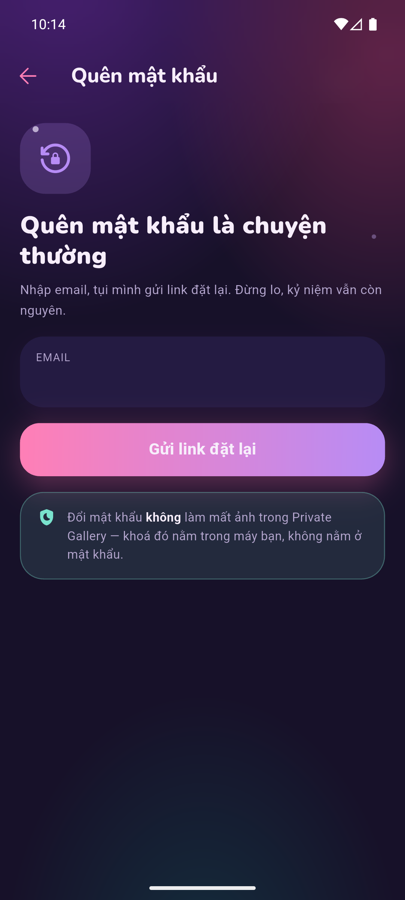
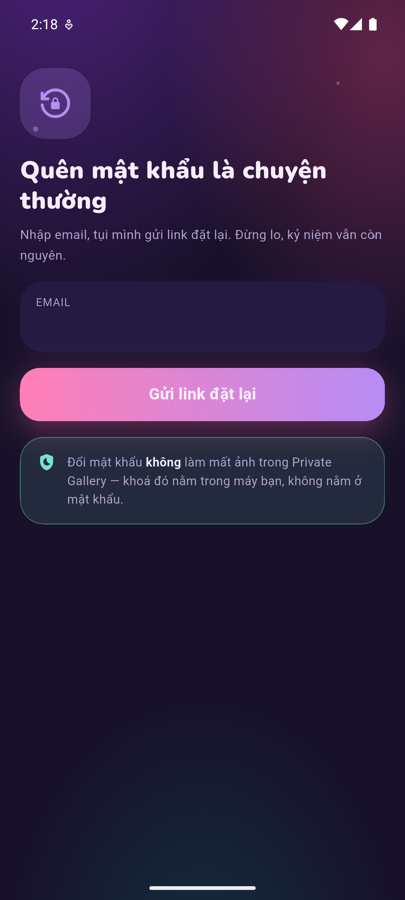
docs(REQ-002): recapture mobile-visual-audit evidence for R3-1 (chrome removal on otp/forgot/permissions/profile)
Rows 5-8 and their PNGs described a pre-fix state: the Round 2 captures
predated f726e8c (BUG-20260814-001), which removed the self-composed
CupidHeader from otp, forgot, permissions and onboarding_profile_setup.

Recaptured all four on emulator-5560 at integration HEAD d3f5f34, same tool
and --max-edge=900, same 405x900 filenames. Rows 5-8 now record the
chromeless state; IF-2 gains a "no header chrome" group and marks these four
resolved; IF-4 is restated after pixel measurement showed its comparator list
was wrong — otp, permissions and profile all sample a flat rgb(23,17,41),
and forgot is the only one of the four rendering the shared background wash,
because it is the only one that dropped its opaque Scaffold backgroundColor
under STORY-032 AC1.

flutter build apk --debug -t lib/main_preview.dart: exit 0. flutter analyze
lib test: 0 errors/0 warnings (80 info lints). flutter test: 1247 passed/2
skipped/0 failures.

Changed region(s): [[0.0296, 0.0622, 0.9778, 0.6533], [0.0889, 0.0, 0.1778, 0.0311]]

diff --git a/data/requirements/REQ-002_screen_flow_and_design_fidelity_audit/integration-review/mobile-visual-audit.md b/data/requirements/REQ-002_screen_flow_and_design_fidelity_audit/integration-review/mobile-visual-audit.md
@@ -36,6 +36,14 @@ build of the integration HEAD rather than 31 rebuild cycles.
 | Screen switch | `cupidpreview://screen/<id>` (debug-only intent filter) |
 | Session | Authenticated preview fixture session (`PREVIEW_EMAIL` / `PREVIEW_PASSWORD`), backend reachable at `http://10.0.2.2:3000` |
 
+Round 3 recapture (R3-1): the `otp`, `forgot`, `permissions` and `profile` PNGs
+were replaced in place at integration HEAD `d3f5f34`, because their Round 2
+captures predated `f726e8c` and still showed the `CupidHeader` that fix removed.
+Same device, same tool, same `--max-edge=900`, same 405x900 output. The rebuild
+added `--dart-define=PREVIEW_PROFILE=fixture` — STORY-010's documented
+backend-free path for the `profile` capture — which affects that screen only.
+The other 27 PNGs are unchanged Round 2 evidence.
+
 Capture caveat: installing the preview APK replaced the DevOps `lib/main.dart`
 debug build on `emulator-5560` (same `applicationId`). The emulator lifecycle
 itself was untouched. Re-install the `lib/main.dart` debug build if a later pass
@@ -72,10 +80,10 @@ All screenshots are `mobile-screenshots/implemented-<id>-emulator-5560.png` on
 | 2 | `welcome` | FAIL | IF-1 — background gradient renders pale lavender→pink; white text and footnote near-illegible |
 | 3 | `login` | PASS | No broken/misaligned mobile UI components observed |
 | 4 | `register` | PASS | No broken/misaligned mobile UI components observed |
-| 5 | `otp` | PASS | IF-4 (minor) — backdrop flatter/darker than the ambient wash on sibling auth screens |
-| 6 | `forgot` | PASS | No broken/misaligned mobile UI components observed |
-| 7 | `permissions` | PASS | No broken/misaligned mobile UI components observed |
-| 8 | `profile` | PASS | No broken/misaligned mobile UI components observed |
+| 5 | `otp` | PASS | Chromeless per AC4. IF-4 — opaque Scaffold fill occludes the shared background wash |
+| 6 | `forgot` | PASS | Chromeless per AC4. Only one of the four chain screens rendering the shared background wash |
+| 7 | `permissions` | PASS | Chromeless per AC4. IF-4 — opaque Scaffold fill occludes the shared background wash |
+| 8 | `profile` | PASS | Chromeless per AC4. IF-4 — opaque Scaffold fill occludes the shared background wash |
 | 9 | `pairingchoice` | PASS | No broken/misaligned mobile UI components observed |
 | 10 | `invite` | PASS | IF-2 — header shows a bare back arrow with no title |
 | 11 | `joincode` | PASS | IF-2 — header shows a bare back arrow with no title |
@@ -134,18 +142,29 @@ an audit pass.
 
 ### IF-2 — Inconsistent screen header affordances — MEDIUM
 
-Three header patterns coexist across the merged build:
+Four header patterns coexist across the merged build:
 
-- back arrow + title: `otp`, `forgot`, `permissions`, `profile`, `vibe`,
-  `alarm`, `antighost`, `timeline`, `contract`, `ghostset`, `jar`, `jarlist`,
-  `privacy`, `notifs`
+- no header chrome (specified, not a deviation): `otp`, `forgot`,
+  `permissions`, `profile`
+- back arrow + title: `vibe`, `alarm`, `antighost`, `timeline`, `contract`,
+  `ghostset`, `jar`, `jarlist`, `privacy`, `notifs`
 - back arrow, no title: `invite`, `joincode`
 - title, no back arrow: `expense`, `jarnew`
+
+Resolved for the first group. `ux/uiux-spec.md` AC4 Chrome Rules apply
+unconditionally to every onboarding-chain node and override the design source's
+`NO_CHROME` map, which omits these four ids (STORY-002 internal decision 3).
+`f726e8c` (BUG-20260814-001) removed the `CupidHeader` these screens
+self-composed; the Round 2 rows and screenshots for them predated that fix and
+were recaptured at Round 3. They now carry no in-screen back affordance at all,
+which is the specified behaviour for the chain — not the same gap as
+`expense`/`jarnew` below.
 
 `expense` and `jarnew` have no visible back affordance at all. Observed in the
 preview harness, so confirm against the live navigation stack before changing
 code — a host route may supply the leading control. No single per-screen story
-owned the shared header contract.
+owned the shared header contract. The inconsistency is unchanged in kind across
+the remaining screens, so severity stays MEDIUM.
 
 ### IF-3 — `chat` has no partner header — LOW
 
@@ -153,10 +172,37 @@ owned the shared header contract.
 with no partner identity header, unlike every other paired-context screen.
 Possibly fixture-dependent.
 
-### IF-4 — `otp` backdrop inconsistent with sibling auth screens — LOW
+### IF-4 — Shared app-background wash occluded on 3 of the 4 chain screens — LOW
 
-`otp` renders a noticeably flatter, darker backdrop than the ambient purple wash
-on `forgot` / `permissions` / `profile`.
+Still open, but restated: Round 2 recorded this as "`otp` renders a noticeably
+flatter, darker backdrop than the ambient purple wash on `forgot` /
+`permissions` / `profile`". Re-measured at Round 3 on the recaptured PNGs, that
+comparator list is wrong. `otp`, `permissions` and `profile` are identical to
+each other; `forgot` is the single outlier.
+
+Sampled on content-free background bands (top-right 285-405 x 40-90, bottom
+0-405 x 760-860) of the Round 3 captures:
+
+| Screen | Background sample | Variation |
+|---|---|---|
+| `otp` | `rgb(23,17,41)` both bands | flat, range 0 |
+| `permissions` | `rgb(23,17,41)` both bands | flat, range 0 |
+| `profile` | `rgb(23,17,41)` both bands | flat, range 0 |
+| `forgot` | `rgb(83,32,69)` top-right, `rgb(22,23,45)` bottom | visible gradient |
+
+Root cause is not the removed header. `otp_screen.dart:79`,
+`permissions_screen.dart:107` and `onboarding_profile_setup_screen.dart:85` each
+still set `backgroundColor: colors.colorBackground`, an opaque Scaffold fill
+that occludes the shared `CupidAppBackground` wash. `forgot_screen.dart` dropped
+that override under STORY-032 AC1 and is the only one of the four migrated, so
+it is the only one where the shared wash reaches the frame.
+
+Why this is integration scope: the shared background layer arrived in STORY-032,
+after the four screens shipped from STORY-007/008/009/010, so no per-screen story
+gate could have seen the mismatch.
+
+Scope caveat: only these four screens were re-measured in this recapture. A
+repo-wide sweep for the same retained-override pattern was not part of this pass.
 
 ### IF-5 — `gallery` photo tiles render empty — LOW / needs data caveat
 
